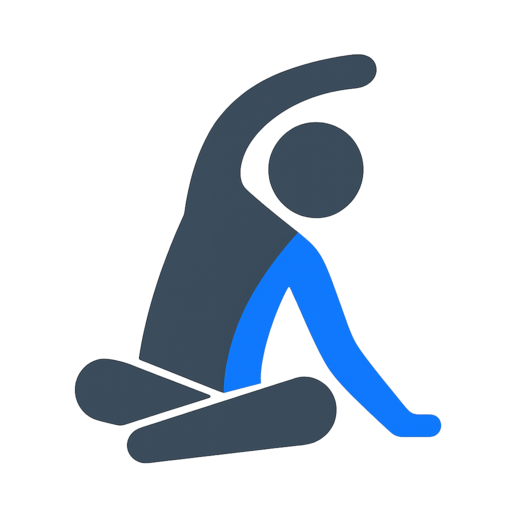
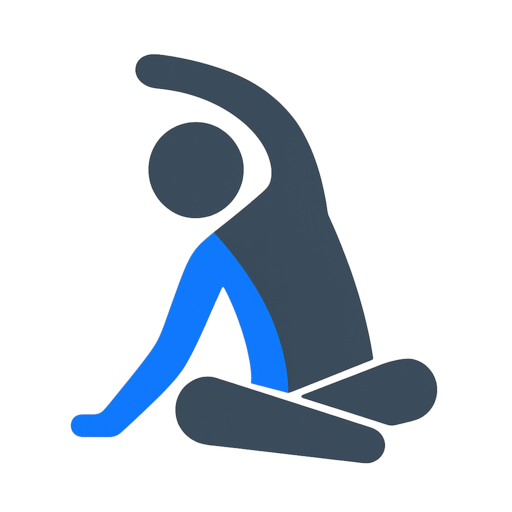
fix: correct piriforme hands and mirror carré des lombes droit
- Piriforme (06/07): hands now clasp behind the raised thigh (threaded
  through the figure-4) instead of draping over the top of the leg.
- Carré des lombes droit (09): horizontally mirrored so it is a true
  opposite of the gauche version — the image model had rendered the two
  sides identical.

Changed region(s): [[0.125, 0.0938, 0.875, 0.9062]]

diff --git a/scripts/generate-images.ts b/scripts/generate-images.ts
@@ -67,13 +67,13 @@ const poses: Pose[] = [
     slug: "06-piriforme-gauche",
     accent: "the left gluteal region",
     view: "side profile",
-    pose: "lying on the back, head down; the right thigh raised toward the chest with the right knee bent and the right foot lifted off the floor; the left ankle crossed and resting on top of the right thigh just above the knee, the bent left knee splayed open out to the side so the two legs clearly form the shape of a number 4; both hands reaching around behind the right thigh to draw it toward the chest.",
+    pose: "lying on the back, head down; the right thigh raised toward the chest with the right knee bent and the right foot off the floor; the left ankle crossed on top of the right thigh just above the knee, the bent left knee splayed open to the side so the two legs form the shape of a number 4; the left arm threaded through the gap between the two legs and the right arm passing around the outside, both hands clasping together behind the right thigh (gripping the back of the thigh) to pull it toward the chest — the arms wrap around the BACK of the thigh and must never rest on top of the leg.",
   },
   {
     slug: "07-piriforme-droit",
     accent: "the right gluteal region",
     view: "side profile",
-    pose: "lying on the back, head down; the left thigh raised toward the chest with the left knee bent and the left foot lifted off the floor; the right ankle crossed and resting on top of the left thigh just above the knee, the bent right knee splayed open out to the side so the two legs clearly form the shape of a number 4; both hands reaching around behind the left thigh to draw it toward the chest.",
+    pose: "lying on the back, head down; the left thigh raised toward the chest with the left knee bent and the left foot off the floor; the right ankle crossed on top of the left thigh just above the knee, the bent right knee splayed open to the side so the two legs form the shape of a number 4; the right arm threaded through the gap between the two legs and the left arm passing around the outside, both hands clasping together behind the left thigh (gripping the back of the thigh) to pull it toward the chest — the arms wrap around the BACK of the thigh and must never rest on top of the leg.",
   },
   {
     slug: "08-carre-lombes-gauche",